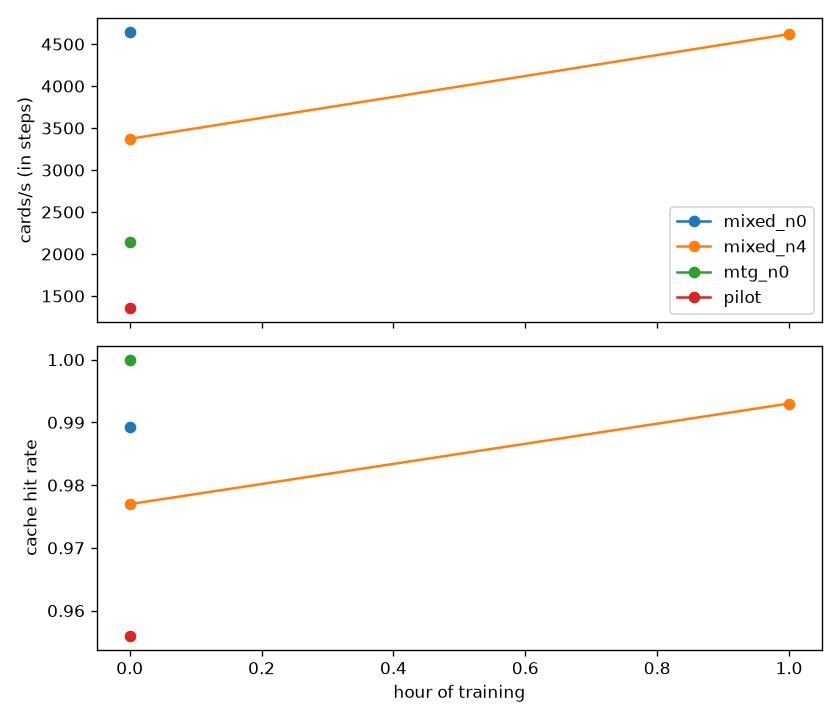
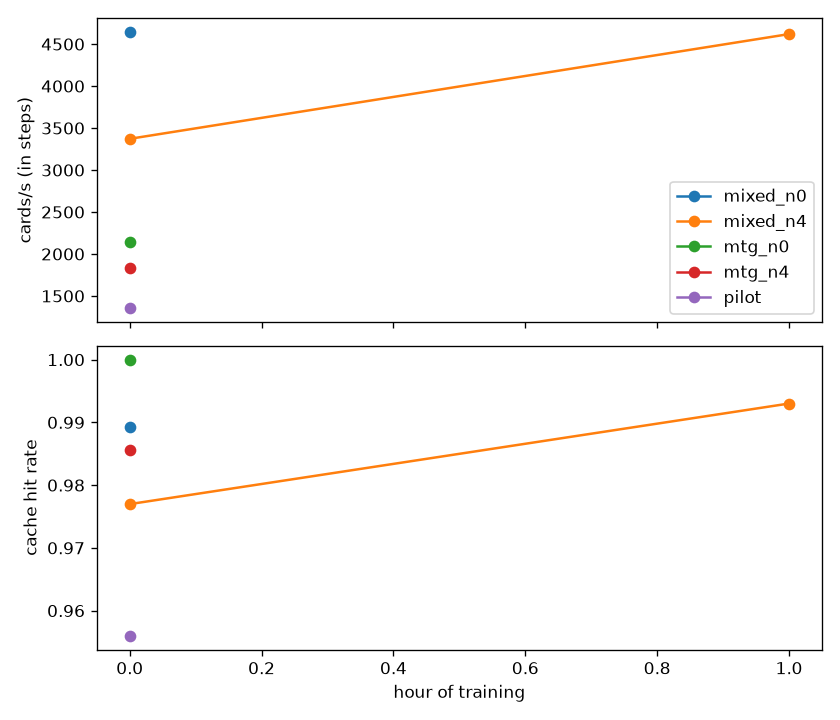
scale_profile: mtg_n4 bench note and recorded config
Claude-Session: https://claude.ai/code/session_01FEiz1dDeRYdUUoF1ZHgSJy

Changed region(s): [[0.8048, 0.2444, 0.9595, 0.4278], [0.1548, 0.6111, 0.1857, 0.6417], [0.1548, 0.3667, 0.1857, 0.3972]]

diff --git a/experiments/2026-10-24_scale_profile/bench_notes/2026-10-24_1415_mtg_n4_done.md b/experiments/2026-10-24_scale_profile/bench_notes/2026-10-24_1415_mtg_n4_done.md
@@ -1,0 +1,56 @@
+# 2026-10-24 14:15 · run mtg_n4 done
+
+**Run:** mtg_n4 · **Config:** `configs/mtg_n4.yaml` (recorded) · **Exit:** 0 · **Duration:** 32 min (estimate 50) · **Commit:** 6edf2e6
+
+`contrastive.mtg` alone, 1 round × 6,000 steps, with augmentation on at the game
+defaults (`probability: 0.1, variants: 4`). It did not stop early, and the log has no traceback.
+
+## Key numbers
+
+From `results/run_summary.csv`, `by_dojo.csv` and `mtg_projection.csv`
+(`profile_report.py pilot mixed_n0 mixed_n4 mtg_n0 mtg_n4`), and the profile's
+`builds.csv` and `reserves.csv`. The second figure in each pair is mtg_n0's.
+
+- **Startup:** 3.5 min (4.0). Training, with one TEST pass, took 28.0 min (24.0).
+- **Steps:** 6,000 × 512 cards. The median step is 0.247 s (0.225) and p90 0.353 s
+  (0.240). Steady: 1,983 anchor cards/s in steps and 1,982 on the wall
+  clock (2,227), which is 0.89×.
+- **Step parts, steady:** wait 73% (69%), forward + loss 22%.
+- **The worker:** batch builds took 1,251 s in total, a median of 0.194 s per batch (0.214).
+  Mods took 24.9 s (3.1). Reservations took 423 s (63), of which live encoding of
+  44,485 cold variant texts took 335 s (0).
+- **Cache:** hit rate 98.6% over training and 99.5% steady. 79,151 texts
+  were encoded, 34,666 of them by the warm-up. 0 uncacheable and 0 evictions.
+- **Projection (card factor still 0.8):** 991 decks/s. One anchor pass over
+  103.2M visits takes **14.5 h**, and the 129M upper bound takes 18.1 h. One 2-card
+  pass over the TRAIN decks takes 1.55 h.
+
+## Where the data is
+
+- Raw data: `data/runs/2026-10-24_scale_profile/mtg_n4/`, with the profile CSVs in `profile/`.
+- Console capture: `data/runs/2026-10-24_scale_profile/logs/mtg_n4.log`
+- Windows counters: `data/runs/2026-10-24_scale_profile/logs/mtg_n4.{resources,utilization}.csv`
+
+## First observations
+
+- Mods cost 11% of steady throughput here, against 23% in the mixed diet. The
+  run is bound by batch building in both arms. The extra cost is the worker's
+  reservations, which now encode variant texts live, about 0.07 s per step on top of
+  a build of about 0.19 s.
+- The median batch build is slightly faster than mtg_n0's (0.194 vs 0.214
+  s), even though mods take more time. This is not explained here: it may be noise
+  between the runs, or CPU contention from the other runs' leftover state.
+- The steady window is still encoding new variant texts (hit rate 99.5%,
+  not 100%). Over a full 14 h pass this tail would shrink, so the
+  projection is slightly pessimistic.
+- Higher GPU use (10.6% vs 2.5% median) is the live encoding of variant texts.
+
+## Resources and timing
+
+Python dedicated VRAM peaked at 8.43 GB (torch reserved 8.0 GiB, peak
+allocated 4.5 GiB). Python working set peaked at 5.4 GB; free RAM never went below 16.7
+GB. Over the steady window: GPU compute median 10.6%, p90 13.1%; Python
+CPU median 1,228% of one core.
+
+`probe_b2048` started 14:12:20 and is the last run in the queue. It should end around
+14:55.

diff --git a/experiments/2026-10-24_scale_profile/NOTEBOOK.md b/experiments/2026-10-24_scale_profile/NOTEBOOK.md
@@ -338,6 +338,7 @@ What it can't answer: training quality at a 4x batch.
 
 - 2026-10-24 13:16 · run mixed_n4 done, exit 0, 84 min; steady 4,340 cards/s (0.77× mixed_n0), hit rate 99.1% steady, 0 evictions → [bench note](bench_notes/2026-10-24_1316_mixed_n4_done.md)
 - 2026-10-24 13:45 · run mtg_n0 done, exit 0, 28 min; 2,227 anchor cards/s steady, build-bound (wait 69%), projection 12.9 h (card factor 0.8) → [bench note](bench_notes/2026-10-24_1345_mtg_n0_done.md)
+- 2026-10-24 14:15 · run mtg_n4 done, exit 0, 32 min; 1,982 anchor cards/s steady (0.89× mtg_n0), projection 14.5 h (card factor 0.8) → [bench note](bench_notes/2026-10-24_1415_mtg_n4_done.md)
 
 ## Results
 
